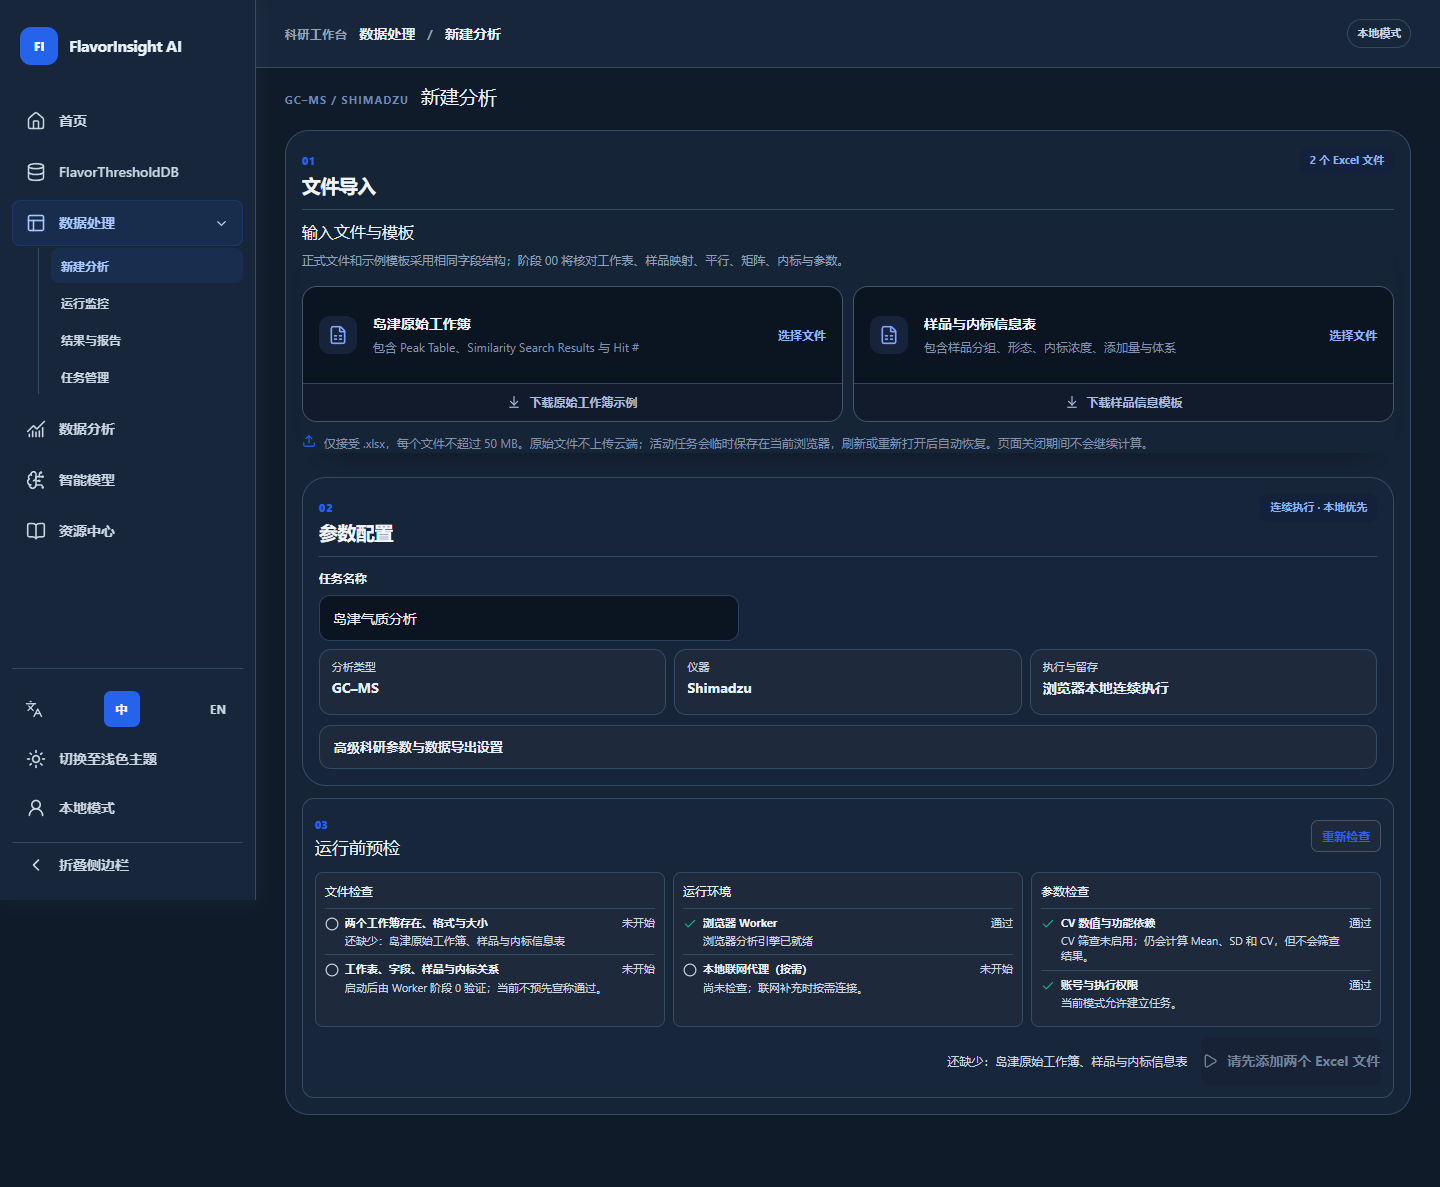
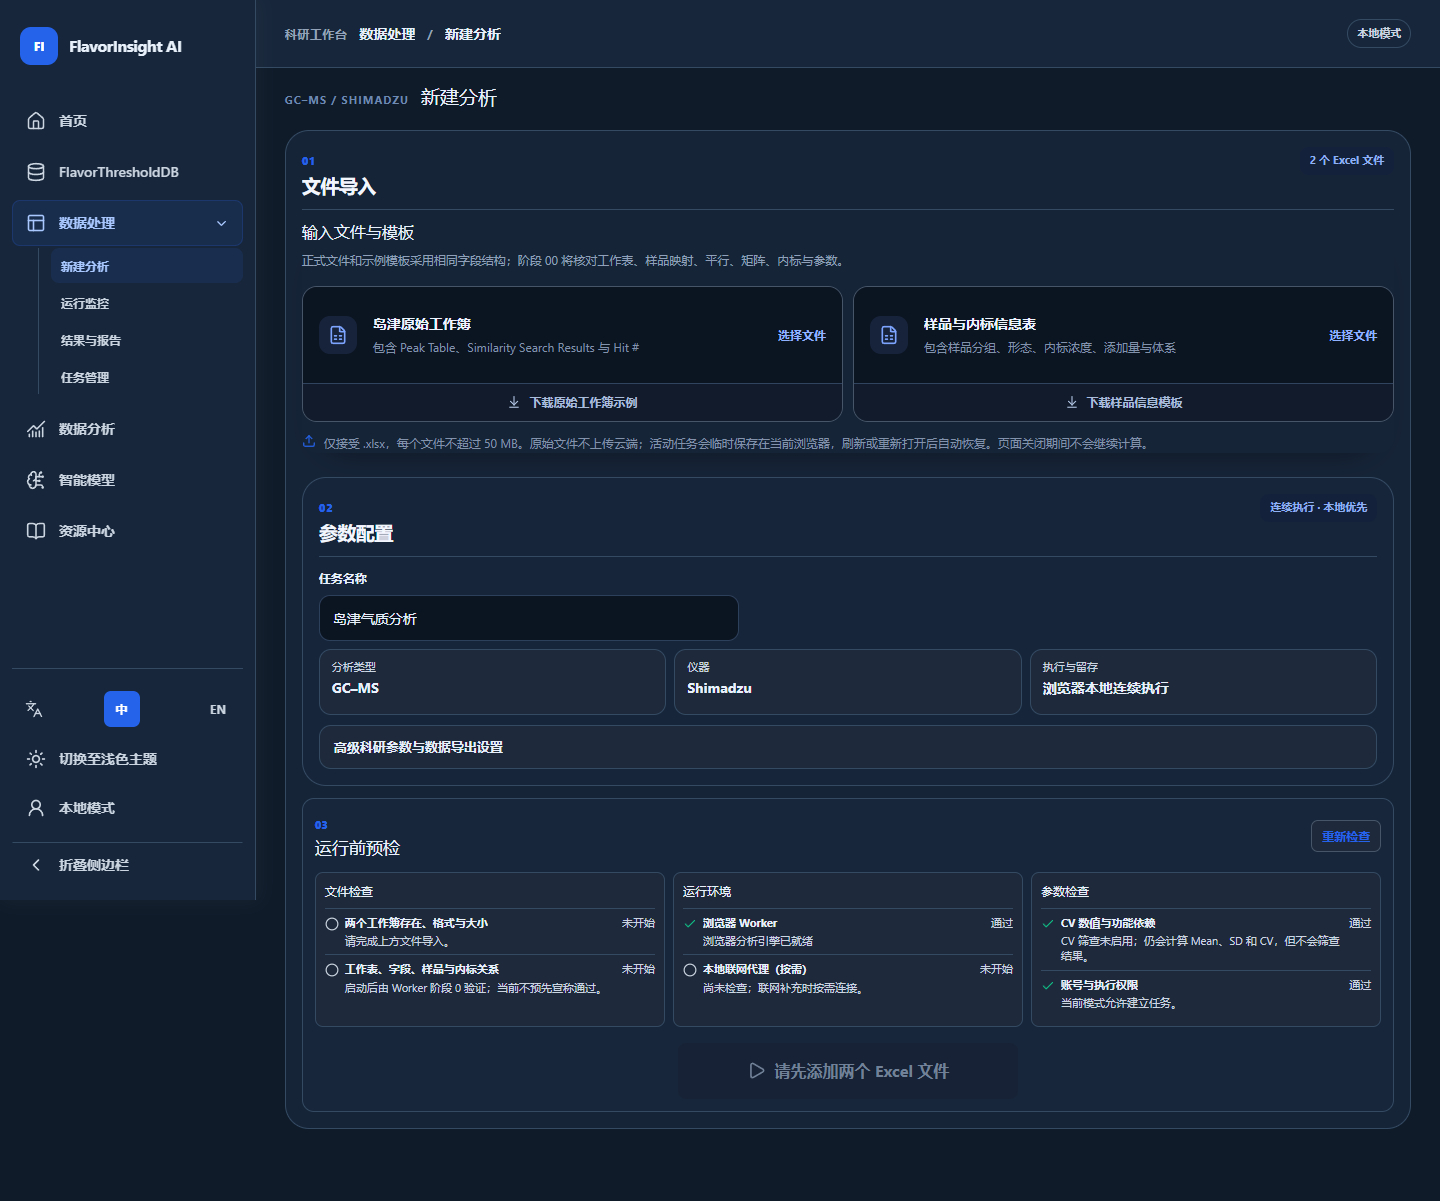
style(processing): center and enlarge run action

diff --git a/frontend/src/components/shimadzu/ShimadzuAnalysisPage.jsx b/frontend/src/components/shimadzu/ShimadzuAnalysisPage.jsx
@@ -443,7 +443,7 @@ function PreflightPanel({ rawFile, samplesFile, fileReadiness, cvReadiness, engi
   return <section className="processing-preflight" aria-labelledby="preflight-title">
     <div className="processing-workspace-heading"><div><span>03</span><h2 id="preflight-title">{textFor(language, '运行前预检', 'Preflight checks')}</h2></div><button type="button" onClick={onRecheck}>{textFor(language, '重新检查', 'Recheck')}</button></div>
     <div className="processing-preflight-groups">{groups.map(group => <section key={group.title} className="processing-preflight-group"><h3>{group.title}</h3><ul>{group.checks.map(check => <li key={check.label} className={`state-${check.status}`}><StageMark status={check.status} /><div><strong>{check.label}</strong><small>{check.detail}</small></div><span>{statusLabel(check.status, language)}</span></li>)}</ul></section>)}</div>
-    <div className="processing-preflight-footer"><p role="status" aria-live="polite">{startFeedback.message}</p><button className="shimadzu-run-button" type="submit" disabled={!canStart}>{submitting ? <Loader2 className="spin" /> : <Play />}{startFeedback.buttonLabel}</button></div>
+    <div className="processing-preflight-footer"><button className="shimadzu-run-button" type="submit" disabled={!canStart}>{submitting ? <Loader2 className="spin" /> : <Play />}{startFeedback.buttonLabel}</button></div>
   </section>
 }
 
@@ -688,7 +688,7 @@ export default function ShimadzuAnalysisPage({ embedded = false, language = 'zh'
       return {
         ready: false,
         buttonLabel: missing.length === 2 ? textFor(language, '请先添加两个 Excel 文件', 'Add both Excel files first') : `${textFor(language, '请添加', 'Add ')}${missing[0]}`,
-        message: `${textFor(language, '还缺少：', 'Missing: ')}${missing.join(language === 'en' ? ', ' : '、')}`,
+        message: textFor(language, '请完成上方文件导入。', 'Complete the file import above.'),
       }
     }
 

diff --git a/frontend/src/components/shimadzu/ShimadzuAnalysisPage.css b/frontend/src/components/shimadzu/ShimadzuAnalysisPage.css
@@ -1952,9 +1952,9 @@
 .processing-preflight-group strong { display: block; color: var(--sz-ink); font-size: 11px; }
 .processing-preflight-group small { display: block; margin-top: 2px; color: var(--sz-muted); font-size: 11px; line-height: 1.4; overflow-wrap: anywhere; }
 .processing-preflight-group li > span { color: var(--sz-muted); font-size: 11px; white-space: nowrap; }
-.processing-preflight-footer { display: flex; justify-content: flex-end; align-items: center; gap: 14px; margin-top: 10px; }
-.processing-preflight-footer p { margin: 0; color: var(--sz-muted); font-size: 12px; }
-.processing-preflight-footer .shimadzu-run-button { width: auto; min-width: 180px; margin: 0; }
+.processing-preflight-footer { display: flex; justify-content: center; align-items: center; margin-top: 16px; }
+.processing-preflight-footer .shimadzu-run-button { width: min(100%, 340px); min-height: 56px; margin: 0; font-size: 16px; }
+.processing-preflight-footer .shimadzu-run-button svg { width: 19px; height: 19px; }
 .processing-workspace-main .analysis-console-statusbar { grid-template-columns: minmax(0, 1.4fr) repeat(4, minmax(112px, .65fr)); }
 .analysis-console-status-primary > small { color: var(--sz-muted); font-size: 11px; }
 .processing-results,

diff --git a/docs/ai-development/PROCESSING_WORKSPACES_ACCEPTANCE.md b/docs/ai-development/PROCESSING_WORKSPACES_ACCEPTANCE.md
@@ -18,7 +18,7 @@
 ## 浏览器证据
 
 - 重构前：[单页深色桌面截图](screenshots/processing-workspaces/before-desktop.png)，1440×1935。
-- 重构后：[新建分析桌面](screenshots/processing-workspaces/after-desktop-new.png)，1440×1187；首个默认页面高度约减少 39%。[运行监控](screenshots/processing-workspaces/after-desktop-monitor.png)、[结果与报告](screenshots/processing-workspaces/after-desktop-results.png)、[任务管理](screenshots/processing-workspaces/after-desktop-tasks.png)。
+- 重构后：[新建分析桌面](screenshots/processing-workspaces/after-desktop-new.png)，1440×1201；首个默认页面高度约减少 38%。[运行监控](screenshots/processing-workspaces/after-desktop-monitor.png)、[结果与报告](screenshots/processing-workspaces/after-desktop-results.png)、[任务管理](screenshots/processing-workspaces/after-desktop-tasks.png)。预检底部运行按钮已放大并居中，重复的缺失文件句子已移除。
 - 响应式：[平板新建分析](screenshots/processing-workspaces/after-tablet-new.png)、[手机新建分析](screenshots/processing-workspaces/after-mobile-new.png)、[手机运行监控](screenshots/processing-workspaces/after-mobile-monitor.png)。
 - 真实 Worker 演练：[完成状态](screenshots/processing-workspaces/after-runtime-complete.png)、[异常状态](screenshots/processing-workspaces/after-runtime-failed.png)。样例使用仓库内模板；没有使用真实科研数据。
 
